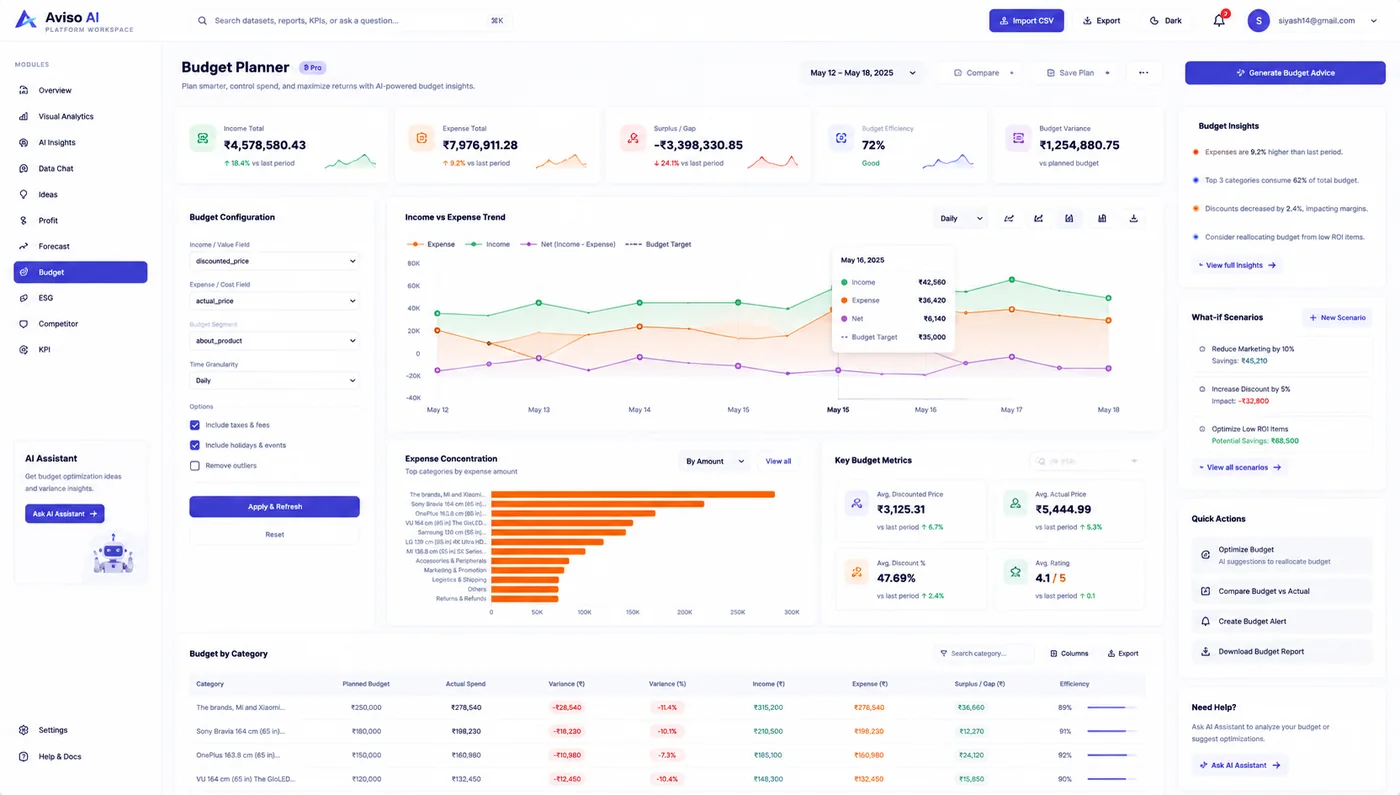
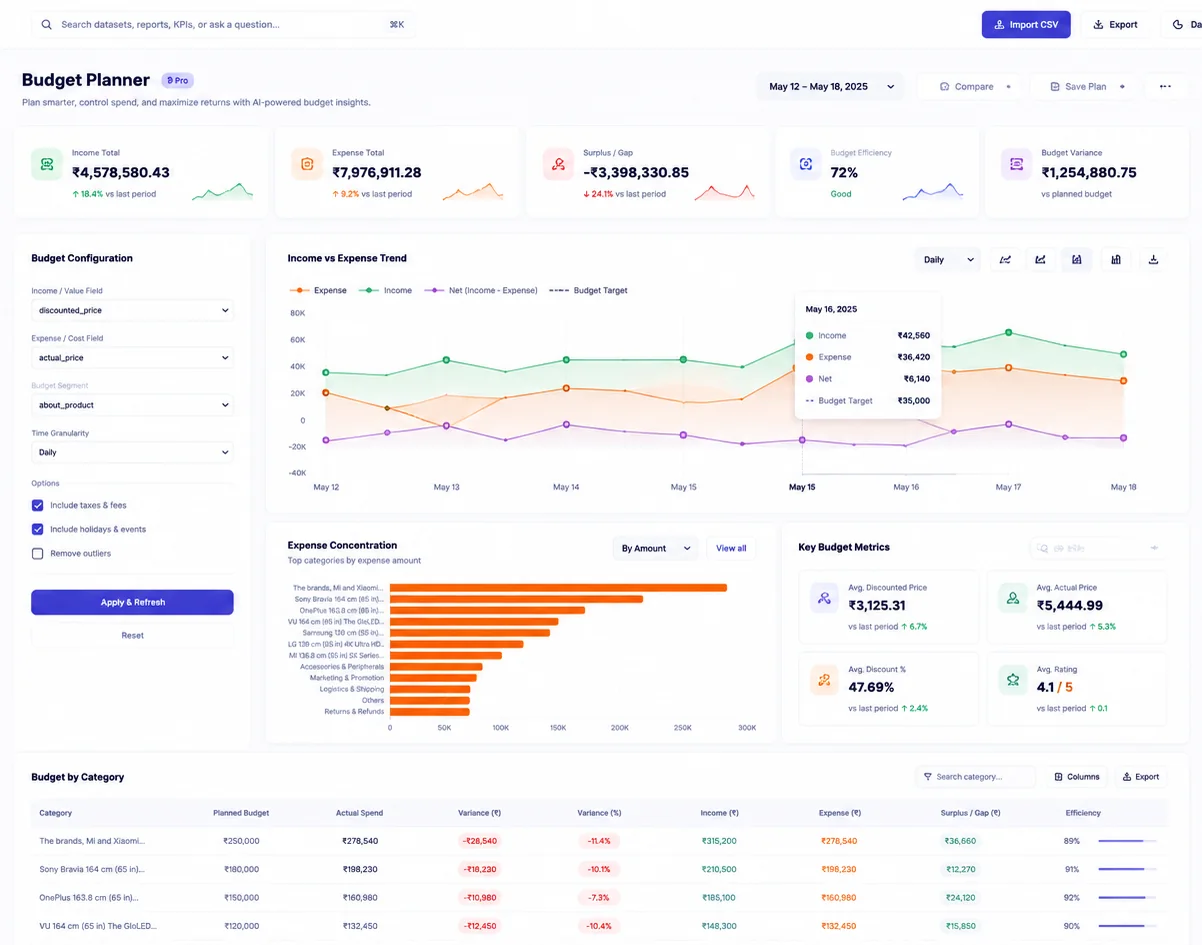
Prepare live deploy env and replace budget screenshot

diff --git a/backend/config/index.ts b/backend/config/index.ts
@@ -5,7 +5,7 @@ dotenv.config();
 export const config = {
   port: parseInt(process.env.PORT || "3000", 10),
   nodeEnv: process.env.NODE_ENV || "development",
-  appUrl: process.env.APP_URL || "http://localhost:3000",
+  appUrl: process.env.APP_URL || "https://advisoai.in",
 };
 
 export function verifyConfig() {

diff --git a/python_backend/app/celery_app.py b/python_backend/app/celery_app.py
@@ -8,18 +8,22 @@ from app.config import get_settings
 
 
 settings = get_settings()
+redis_url = settings.redis_url.strip()
+
+if not redis_url:
+    raise RuntimeError("REDIS_URL is required for Celery broker and result backend.")
 
 
 def _ssl_options() -> dict | None:
-    if settings.redis_url.startswith("rediss://"):
+    if redis_url.startswith("rediss://"):
         return {"ssl_cert_reqs": ssl.CERT_REQUIRED}
     return None
 
 
 celery_app = Celery(
     "adviso_ai",
-    broker=settings.redis_url or "redis://localhost:6379/0",
-    backend=settings.redis_url or "redis://localhost:6379/0",
+    broker=redis_url,
+    backend=redis_url,
     include=["app.workers.tasks"],
 )
 

diff --git a/python_backend/app/config.py b/python_backend/app/config.py
@@ -47,7 +47,7 @@ class Settings(BaseSettings):
     firebase_project_id: str = "advisoai-497313"
     firebase_credentials_json: str = ""
     firebase_credentials_path: str = ""
-    backend_host: str = "127.0.0.1"
+    backend_host: str = "0.0.0.0"
     backend_port: int = 8000
     rate_limit_per_minute: int = 120
     upload_rate_limit_per_minute: int = 10